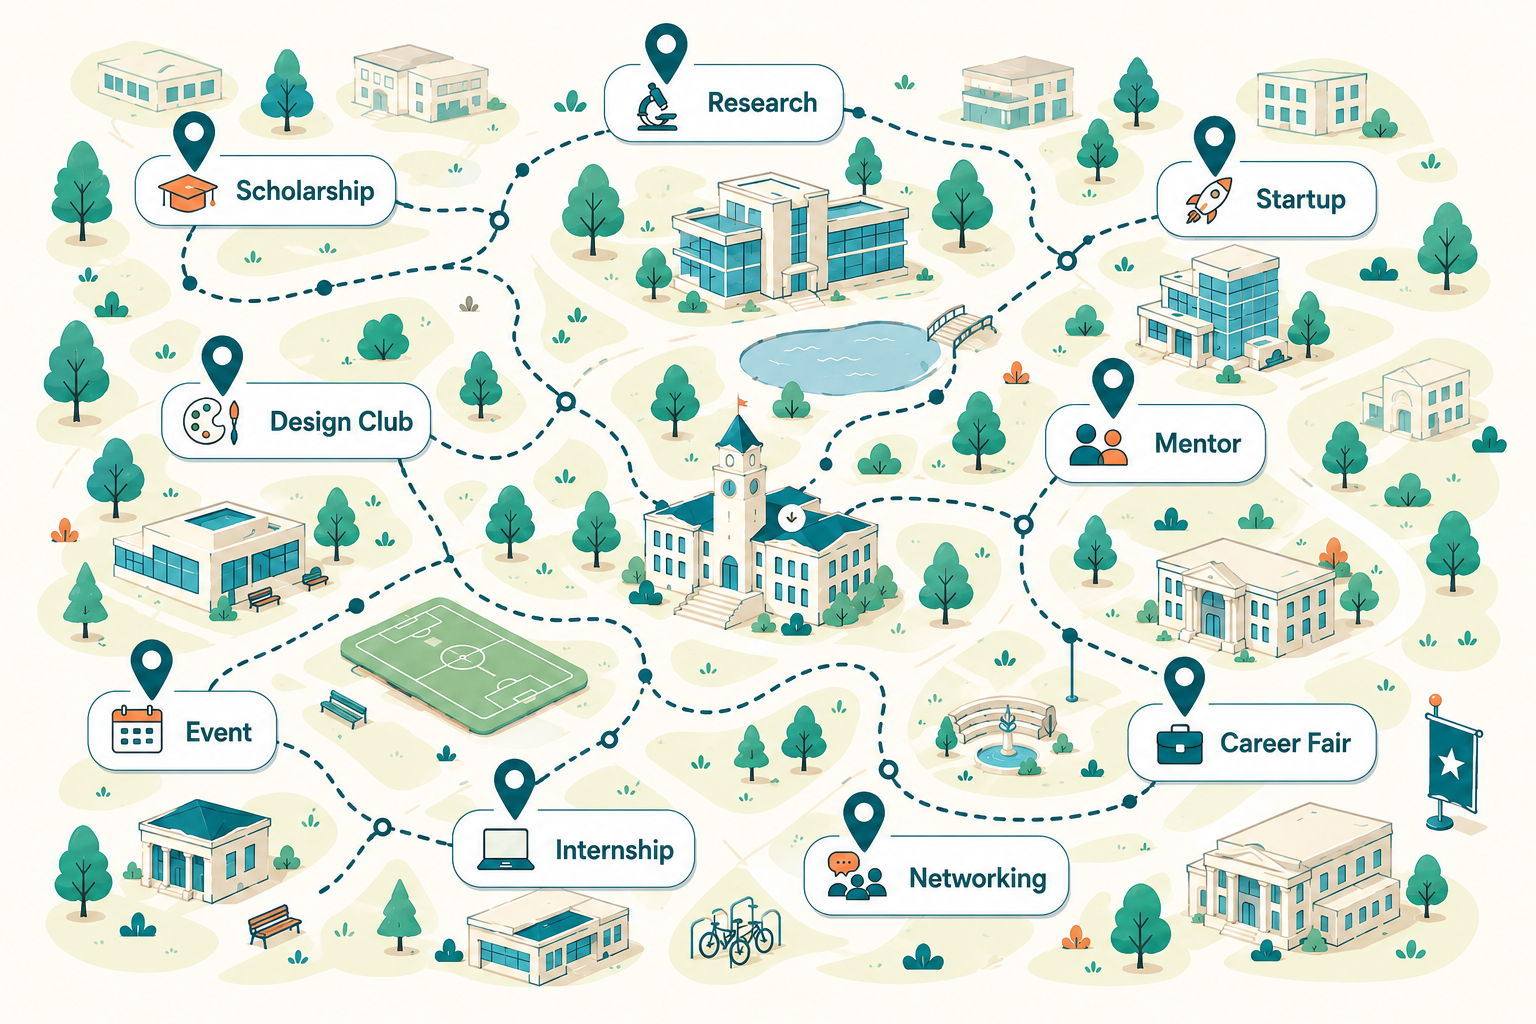
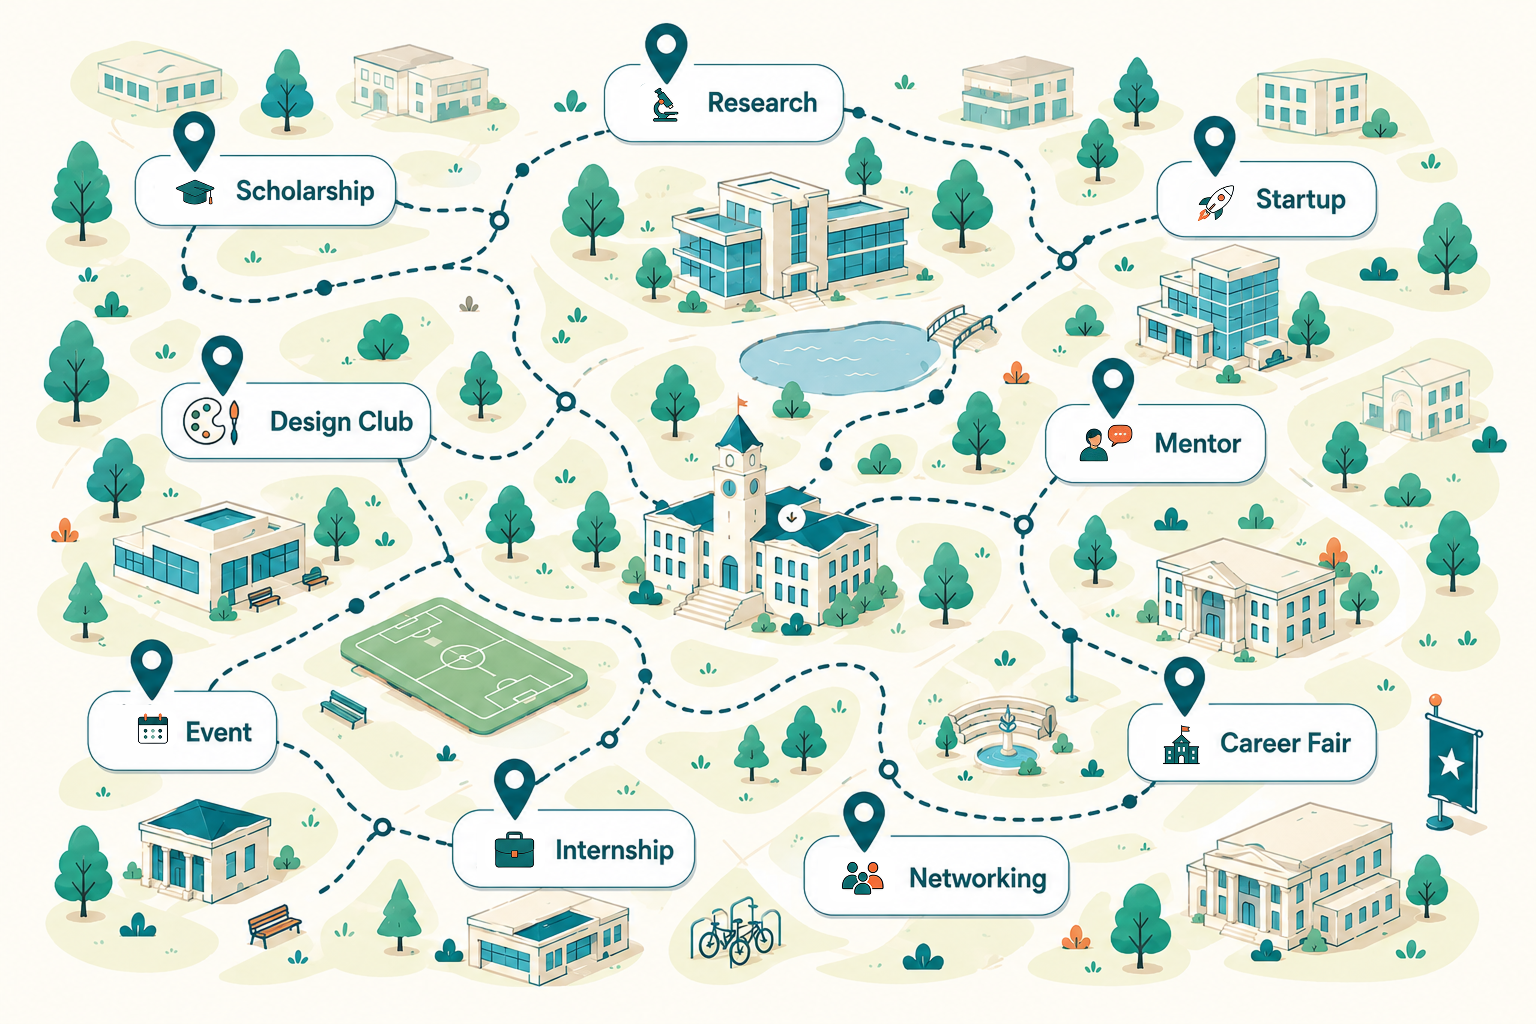
map changes, and form

diff --git a/src/components/FooterForm.jsx b/src/components/FooterForm.jsx
@@ -5,6 +5,7 @@ import { collection, addDoc, serverTimestamp } from 'firebase/firestore';
 const FooterForm = () => {
   const [formData, setFormData] = useState({ 
     name: '', 
+    year: '',
     email: '',
     interest: '',
     otherInterest: ''
@@ -13,6 +14,7 @@ const FooterForm = () => {
   const [loading, setLoading] = useState(false);
   const [error, setError] = useState(false);
   const [dropdownOpen, setDropdownOpen] = useState(false);
+  const [yearDropdownOpen, setYearDropdownOpen] = useState(false);
 
   const handleSubmit = async (e) => {
     e.preventDefault();
@@ -22,6 +24,7 @@ const FooterForm = () => {
     try {
       await addDoc(collection(db, 'waitlist'), {
         name: formData.name,
+        year: formData.year,
         email: formData.email,
         interest: formData.interest === 'Other' ? formData.otherInterest : formData.interest,
         timestamp: serverTimestamp(),
@@ -29,7 +32,7 @@ const FooterForm = () => {
       setSubmitted(true);
       setTimeout(() => {
         setSubmitted(false);
-        setFormData({ name: '', email: '', interest: '', otherInterest: '' });
+        setFormData({ name: '', year: '', email: '', interest: '', otherInterest: '' });
       }, 3000);
     } catch (err) {
       console.error("Firebase error:", err);
@@ -77,6 +80,55 @@ const FooterForm = () => {
                 value={formData.name}
                 onChange={(e) => setFormData({...formData, name: e.target.value})}
               />
+            </div>
+
+            <div className="flex flex-col gap-1 relative">
+              <label htmlFor="year" className="text-white text-xs font-semibold pl-2">YEAR</label>
+              
+              {/* Custom Dropdown Trigger */}
+              <div 
+                className={`w-full px-5 py-3 rounded-full bg-cream font-medium flex justify-between items-center cursor-pointer border-2 transition-colors ${
+                  yearDropdownOpen ? 'border-accent-coral' : 'border-transparent'
+                } ${
+                  formData.year === '' ? 'text-gray-400' : 'text-dark-teal'
+                }`}
+                onClick={() => setYearDropdownOpen(!yearDropdownOpen)}
+              >
+                <span>
+                  {formData.year === '' ? 'Select...' : formData.year}
+                </span>
+                <svg className={`w-5 h-5 text-dark-teal/50 transition-transform duration-200 ${yearDropdownOpen ? 'rotate-180' : ''}`} fill="none" viewBox="0 0 24 24" stroke="currentColor">
+                  <path strokeLinecap="round" strokeLinejoin="round" strokeWidth={2} d="M19 9l-7 7-7-7" />
+                </svg>
+              </div>
+
+              {/* Hidden input to keep native form 'required' validation working */}
+              <input 
+                type="text" 
+                required 
+                value={formData.year} 
+                onChange={() => {}} 
+                className="opacity-0 absolute pointer-events-none w-0 h-0 bottom-0 left-1/2" 
+                tabIndex={-1}
+              />
+
+              {/* Custom Dropdown Menu */}
+              {yearDropdownOpen && (
+                <div className="absolute top-[105%] left-0 right-0 mt-1 bg-cream rounded-2xl shadow-xl overflow-y-auto max-h-52 z-30 border border-primary-teal/20 py-2 animate-fade-in custom-scrollbar">
+                  {['Freshman', 'Sophomore', 'Junior', 'Senior', 'Grad'].map((option) => (
+                    <div 
+                      key={option}
+                      className="px-5 py-2.5 text-dark-teal font-medium hover:bg-primary-teal hover:text-white cursor-pointer transition-colors"
+                      onClick={() => {
+                        setFormData({...formData, year: option});
+                        setYearDropdownOpen(false);
+                      }}
+                    >
+                      {option}
+                    </div>
+                  ))}
+                </div>
+              )}
             </div>
 
             <div className="flex flex-col gap-1">

diff --git a/src/components/MapSection.jsx b/src/components/MapSection.jsx
@@ -1,6 +1,6 @@
 import React from 'react';
 import networkMap from '../assets/network-map.png';
-import networkMapMobile from '../assets/network-map-mobile.jpeg';
+import networkMapMobile from '../assets/network-map-mobile.png';
 import starburstButton from '../assets/starburst-button.svg';
 
 const MapSection = () => {